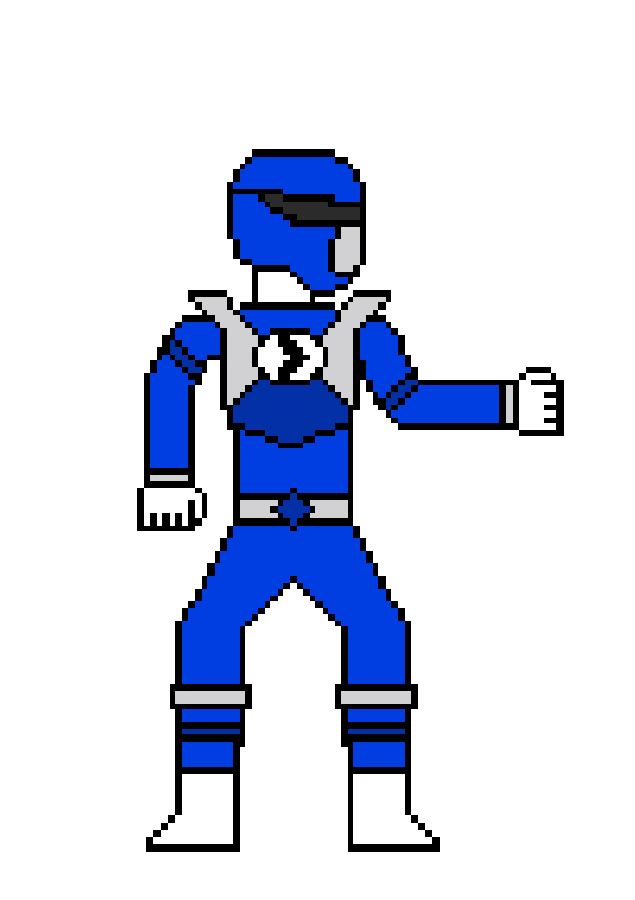
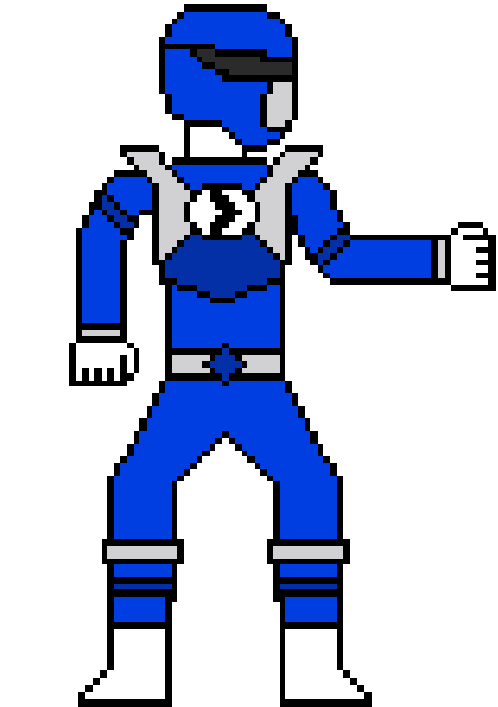
changes to player drawing player drawing now uses constants player sprites now fit squarely

diff --git a/WarrenWarriorsGame/WarrenWarriorsGame/PlayerChar.cs b/WarrenWarriorsGame/WarrenWarriorsGame/PlayerChar.cs
@@ -143,7 +143,7 @@ namespace WarrenWarriorsGame
                             //), 
                         //textPos, 
                         //Color.Black);
-                    sb.Draw(sprite, new Rectangle((int)pos.X, (int)pos.Y, 212, 300), Color.White);
+                    sb.Draw(sprite, new Rectangle(Config.PLAYER_AVATAR_X_LOC + position * (Config.PLAYER_AVATAR_WIDTH + Config.PLAYER_AVATAR_SPACING), Config.PLAYER_AVATAR_Y_LOC, Config.PLAYER_AVATAR_WIDTH, Config.PLAYER_AVATAR_HEIGHT), Color.White);
                 }
                 else
                 {
@@ -158,7 +158,7 @@ namespace WarrenWarriorsGame
                             //),
                         //textPos, 
                         //Color.Red);
-                    sb.Draw(sprite, new Rectangle((int)pos.X, (int)pos.Y, 212, 300), Color.PaleVioletRed);
+                    sb.Draw(sprite, new Rectangle(Config.PLAYER_AVATAR_X_LOC + position * (Config.PLAYER_AVATAR_WIDTH + Config.PLAYER_AVATAR_SPACING), Config.PLAYER_AVATAR_Y_LOC, Config.PLAYER_AVATAR_WIDTH, Config.PLAYER_AVATAR_HEIGHT), Color.PaleVioletRed);
                 }
             }
             else
@@ -169,7 +169,7 @@ namespace WarrenWarriorsGame
                     //string.Format("{0}/{1}", name, "Dead"),
                     //textPos, 
                     //Color.Black);
-                sb.Draw(sprite, new Rectangle((int)pos.X, (int)pos.Y, 212, 300), Color.Gray);
+                sb.Draw(sprite, new Rectangle(Config.PLAYER_AVATAR_X_LOC + position * (Config.PLAYER_AVATAR_WIDTH + Config.PLAYER_AVATAR_SPACING), Config.PLAYER_AVATAR_Y_LOC, Config.PLAYER_AVATAR_WIDTH, Config.PLAYER_AVATAR_HEIGHT), Color.Gray);
             }
             
 		}

diff --git a/WarrenWarriorsGame/WarrenWarriorsGame/PlayerHandler.cs b/WarrenWarriorsGame/WarrenWarriorsGame/PlayerHandler.cs
@@ -171,7 +171,7 @@ namespace WarrenWarriorsGame
             //draw the health icon
             for (int j = 0; j < 3; j++)
             {
-                spriteBatch.Draw(GameUI.GameUI[0], new Rectangle(10 +130*j, 240, 50, 50), Color.White);
+                spriteBatch.Draw(GameUI.GameUI[0], new Rectangle(Config.INV_BUTTON_X_LOC +Config.PLAYER_BTN_SPACING*j, Config.PLAYER_BTN_Y_POS, 50, 50), Color.White);
             }
 
             //draws the players numbers
@@ -186,7 +186,7 @@ namespace WarrenWarriorsGame
 					drawcolor = Color.MonoGameOrange;
 				}
 
-				spriteBatch.DrawString(text, string.Format("{0}:   ", j + 1), j * 5 * Config.LineSpacing, drawcolor);
+				spriteBatch.DrawString(text, string.Format("{0}: {1}  ", j + 1,Units[j].Name), j * 5 * Config.LineSpacing, drawcolor);
                 spriteBatch.DrawString(text, (j + 1).ToString(), new Vector2(95 + j * 130, 265), drawcolor);
 
 			}

diff --git a/WarrenWarriorsGame/WarrenWarriorsGame/Config.cs b/WarrenWarriorsGame/WarrenWarriorsGame/Config.cs
@@ -111,12 +111,19 @@ namespace WarrenWarriorsGame
 		#region Player Characters
 		public const int PLAYER_BTN_X_POS = 70;
 		public const int PLAYER_BTN_Y_POS = 240;
-		public const int PLAYER_BTN_SPACING = 130;
+		public const int PLAYER_BTN_SPACING = 140;
 		public const int PLAYER_BTN_SIZE = 50;
 
 		public const string PLAYER_BTN_NORMAL = "btnNormal";
 		public const string PLAYER_BTN_HOVERED = "btnHovered";
 		public const string PLAYER_BTN_CLICKED = "btnClicked";
+
+		public const int PLAYER_AVATAR_WIDTH = 120;
+		public const int PLAYER_AVATAR_HEIGHT = 170;
+
+		public const int PLAYER_AVATAR_X_LOC = 10;
+		public const int PLAYER_AVATAR_Y_LOC = 20;
+		public const int PLAYER_AVATAR_SPACING = 20;
 
 		#endregion
 
